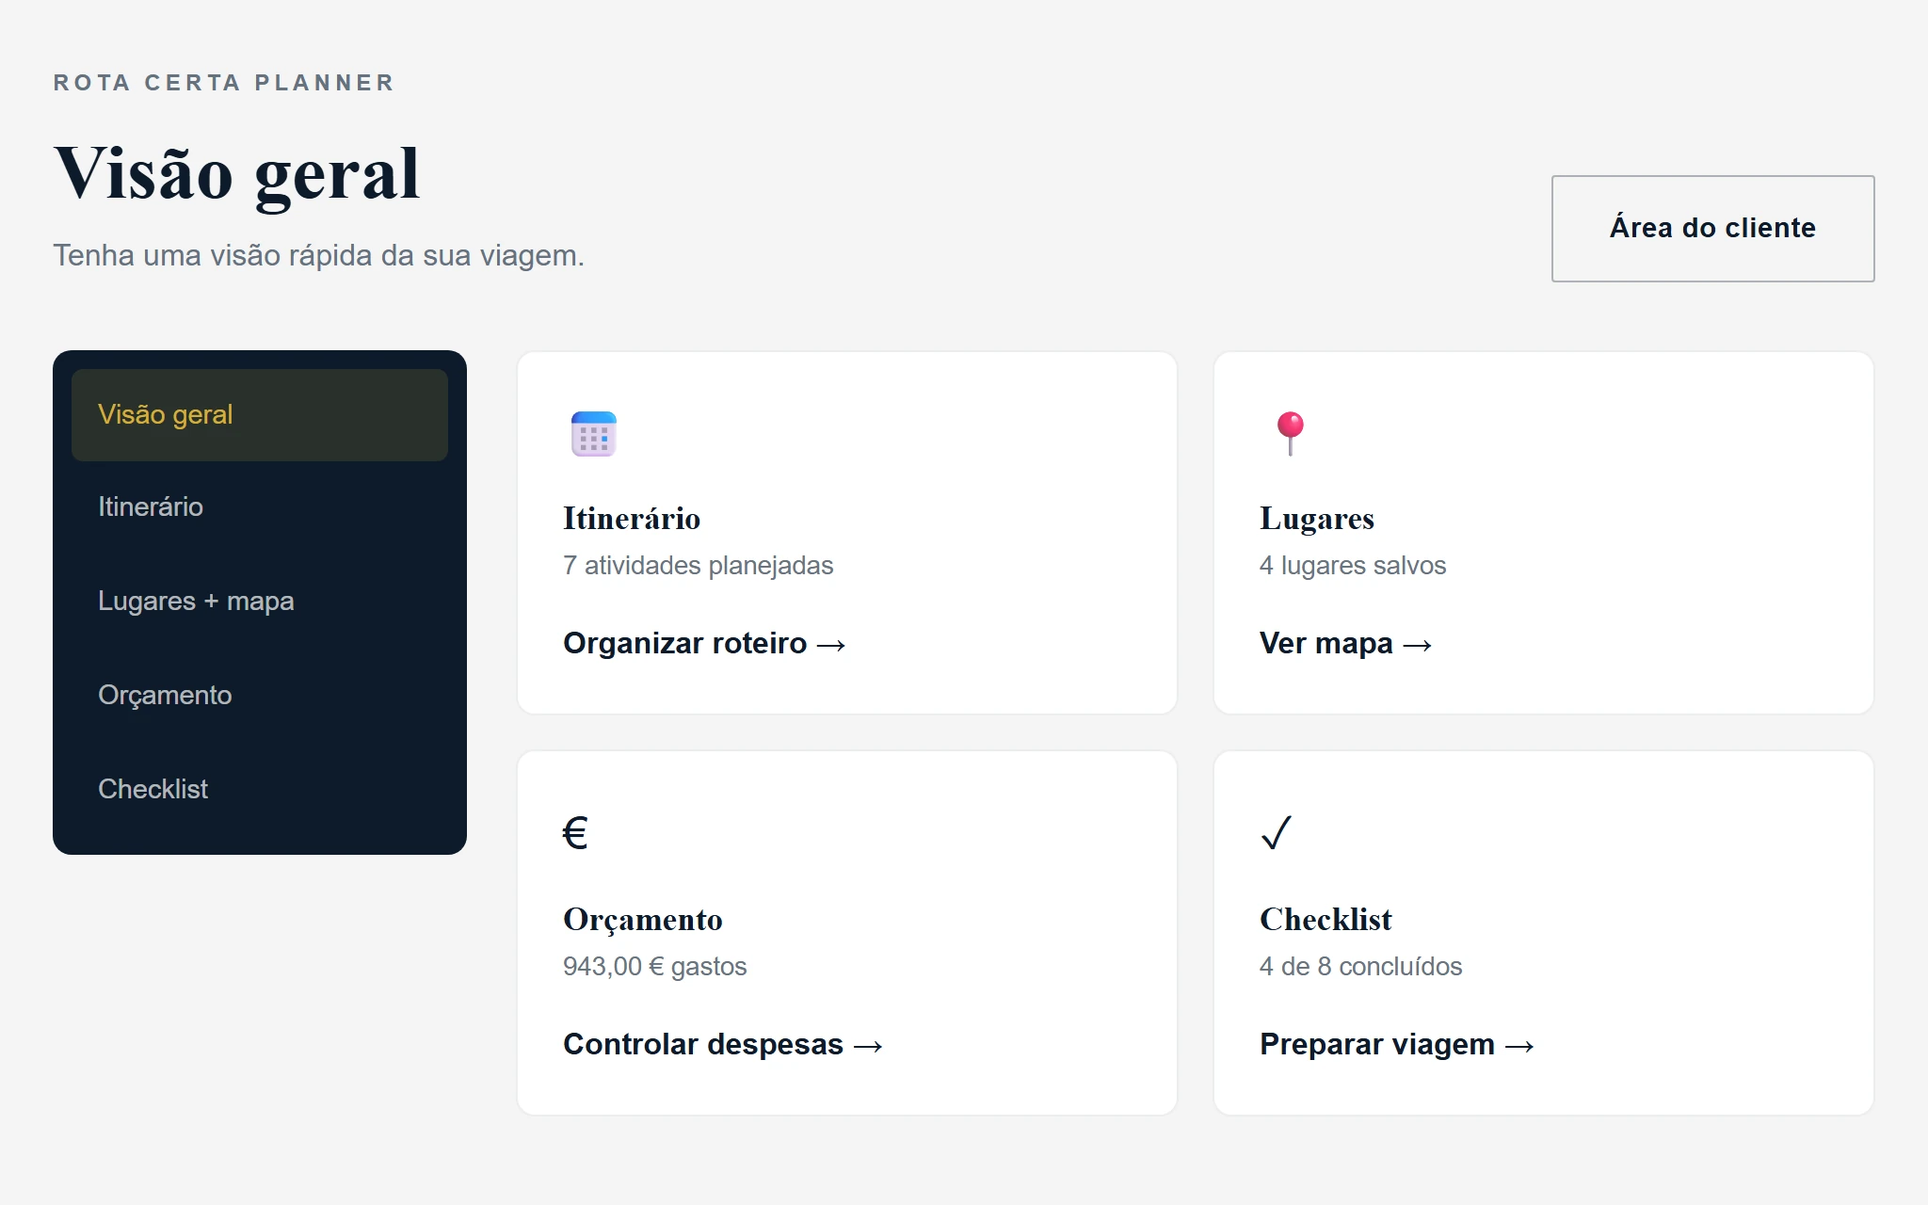
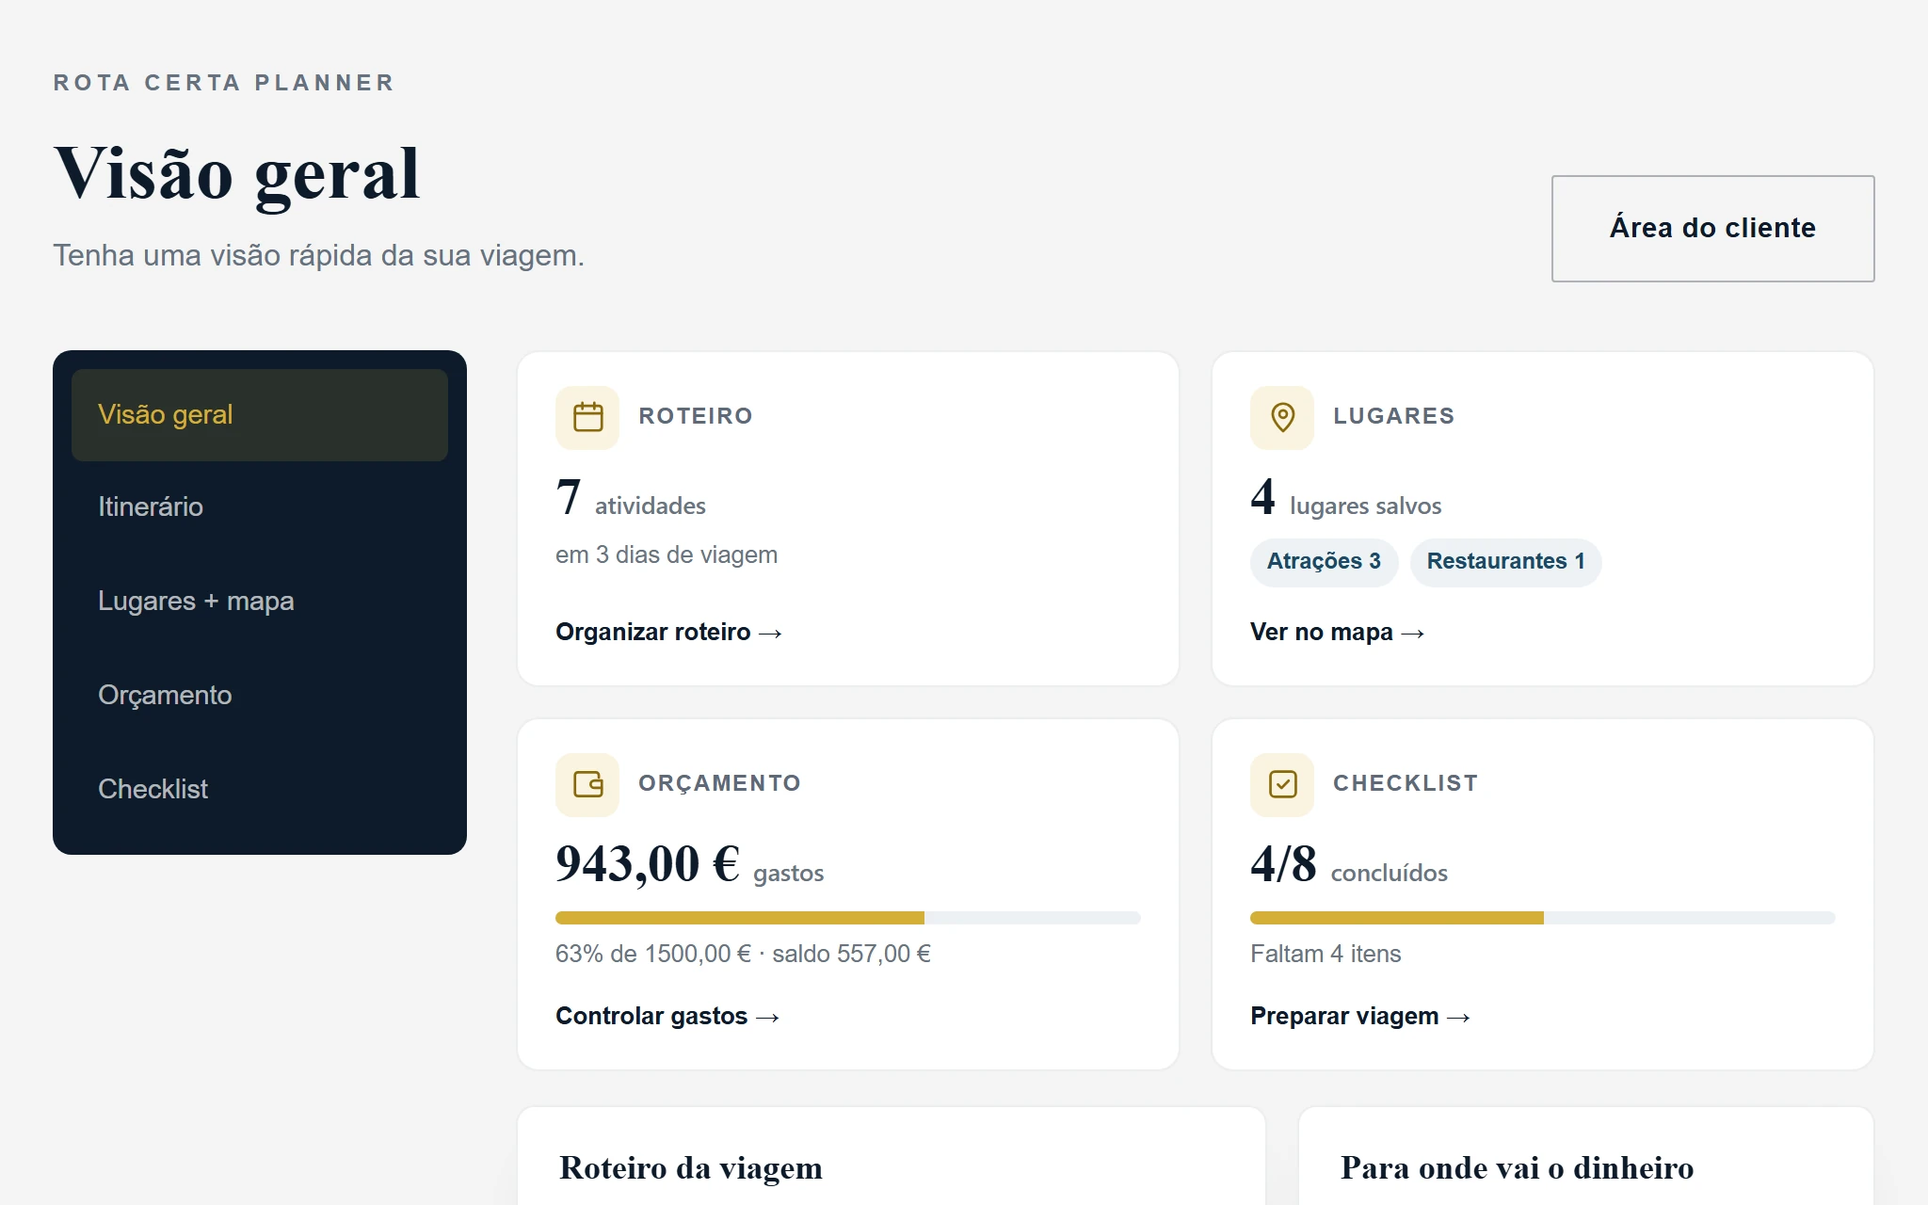
feat(home): Visão geral do Planner em painel, menu direto e pagamentos no rodapé
- Visão geral do Planner: 4 indicadores com ícones (roteiro, lugares,
  orçamento com barra e saldo, checklist com progresso) e 3 painéis
  (roteiro da viagem, para onde vai o dinheiro, o que falta preparar),
  com estados vazios. Uma coluna no celular.
- Menu: "Planejador" vira link direto para o Planner, sem submenu, e a
  ordem fica Sobre nós, FAQ, Contato (a mesma das seções).
- Topo: o selo repetia o nome da marca; agora diz o que a empresa faz
  ("Passagens e planejamento de viagem", versão curta no celular).
- Rodapé: formas de pagamento (Mastercard, Visa, American Express,
  Hipercard, Elo e Aura em até 12x, e Pix). Ícones em branco a partir do
  Simple Icons (CC0) e do aaronfagan/svg-credit-card-payment-icons
  (Apache-2.0), com a fonte anotada em cada arquivo.
- Vitrine da home: telas do Planner recapturadas com a Visão geral nova.

diff --git a/public/index.html b/public/index.html
@@ -112,6 +112,8 @@
   .hero-inner{ position:relative; z-index:2; display:grid; grid-template-columns: 1.1fr 0.9fr; gap:50px; align-items:center; }
   .eyebrow{ color: var(--gold); font-size:0.78rem; letter-spacing:0.22em; text-transform:uppercase; font-weight:600; margin-bottom:22px; display:flex; align-items:center; gap:10px; }
   .eyebrow::before{ content:''; width:34px; height:1px; background: var(--gold); }
+  @media (max-width: 520px){ .eyebrow-extra{ display:none; } }
+  @media (max-width: 400px){ #top .eyebrow{ letter-spacing:0.14em; } }
   .hero h1{ color: var(--off-white); font-size: clamp(2.2rem, 4.3vw, 3.6rem); max-width: 640px; margin-bottom:22px; }
   .hero h1 em{ font-style:italic; color: var(--gold); }
   .hero p.lede{ color: rgba(244,244,244,0.82); font-size:1.08rem; max-width:520px; margin-bottom:36px; font-weight:300; }
@@ -587,6 +589,13 @@
   .foot-logo .logo-img{ width:42px; height:42px; }
   @media (max-width:760px){ .foot-grid > div:first-child{ grid-column:1 / -1; } }
   .foot-tag{ font-size:0.9rem; max-width:280px; margin-bottom:20px; }
+  .foot-pay{ margin-top:30px; }
+  .foot-pay h2{ margin-bottom:14px; }
+  .foot-pay p{ font-size:0.82rem; margin-bottom:10px; }
+  .foot-pay-row{ display:flex; flex-wrap:wrap; gap:8px; margin-bottom:18px; }
+  .foot-grid .foot-pay-row li{ display:grid; place-items:center; width:44px; height:44px; margin:0; border-radius:50%;
+    background:rgba(244,244,244,0.1); border:1px solid rgba(244,244,244,0.14); }
+  .foot-pay-row img{ width:30px; height:19px; object-fit:contain; opacity:0.92; }
   .foot-bottom{ border-top:1px solid rgba(244,244,244,0.1); padding-top:24px; display:flex; justify-content:space-between; flex-wrap:wrap; gap:10px; font-size:0.78rem; }
 
   /* ---------- WHATSAPP FLOAT ---------- */
@@ -647,6 +656,43 @@
   .planner-lock{display:flex;align-items:center;justify-content:space-between;gap:18px;flex-wrap:wrap;background:var(--navy);color:var(--off-white);border-radius:10px;padding:20px 24px;margin-bottom:24px}.planner-lock strong{display:block;margin-bottom:4px;font-size:.98rem}.planner-lock p{font-size:.85rem;color:rgba(244,244,244,.75);margin:0}.planner-lock .btn{flex-shrink:0}
   .trip-manager{display:flex;align-items:center;justify-content:space-between;gap:18px;flex-wrap:wrap;padding:18px 20px}.trip-manager-main{display:flex;align-items:center;gap:18px;flex-wrap:wrap}.trip-manager-main>div{display:grid;gap:3px}.trip-manager-main strong{font-size:1.05rem}.trip-manager-main span{font-size:.78rem;color:#77818c}.trip-manager-main label{font-size:.72rem;text-transform:uppercase;letter-spacing:.05em;color:#66717e;font-weight:700}.trip-manager select{display:block;min-width:210px;margin-top:5px;padding:10px 34px 10px 11px;border:1px solid rgba(13,27,42,.14);border-radius:7px;background:#fff;color:var(--navy);font:inherit;text-transform:none}.trip-manager-actions{display:flex;gap:8px;flex-wrap:wrap}.trip-plan-badge{width:max-content;background:rgba(212,175,55,.15);color:#816b18;border-radius:99px;padding:3px 8px;font-weight:800;letter-spacing:.05em}
   .overview-grid{display:grid;grid-template-columns:1fr 1fr;gap:18px}.overview-card{background:var(--white);border:1px solid rgba(13,27,42,.08);border-radius:10px;padding:24px;transition:.2s}.overview-card:hover{transform:translateY(-2px);box-shadow:0 14px 30px -25px rgba(13,27,42,.5)}.overview-card .icon{font-size:1.5rem;margin-bottom:15px}.overview-card h3{font-size:1.1rem;margin-bottom:5px}.overview-card p{font-size:.86rem;color:#697481;margin-bottom:16px}
+.ov-stats{display:grid;grid-template-columns:repeat(2,minmax(0,1fr));gap:16px;margin-bottom:18px}
+.ov-stat{display:flex;flex-direction:column;gap:7px;background:var(--white);border:1px solid rgba(13,27,42,.08);border-radius:12px;padding:18px 20px;color:var(--navy);text-decoration:none;transition:transform .2s ease,box-shadow .2s ease,border-color .2s ease}
+.ov-stat:hover{transform:translateY(-2px);border-color:rgba(212,175,55,.55);box-shadow:0 16px 30px -24px rgba(13,27,42,.55)}
+.ov-stat-head{display:flex;align-items:center;gap:10px;font-size:.74rem;font-weight:700;letter-spacing:.09em;text-transform:uppercase;color:#5d6978}
+.ov-ico{display:grid;place-items:center;width:34px;height:34px;flex:0 0 34px;border-radius:9px;background:rgba(212,175,55,.15);color:#8a6a0c}
+.ov-ico svg{width:19px;height:19px}
+.ov-value{font-family:var(--font-display);font-size:1.75rem;font-weight:700;line-height:1.1;margin-top:3px}
+.ov-value small{font-family:'Montserrat',system-ui,sans-serif;font-size:.8rem;font-weight:600;color:#697481;margin-left:7px}
+.ov-meta{font-size:.8rem;color:#697481;line-height:1.4}
+.ov-stat .progress{height:7px;margin-top:2px}
+.ov-chips{display:flex;flex-wrap:wrap;gap:6px}
+.ov-chips span{font-size:.74rem;font-weight:600;padding:3px 9px;border-radius:99px;background:#edf2f5;color:var(--blue)}
+.ov-more{margin-top:auto;padding-top:6px;font-size:.8rem;font-weight:700}
+.ov-stat:hover .ov-more{color:#8a6a0c}
+.ov-panels{display:grid;grid-template-columns:minmax(0,1.3fr) minmax(0,1fr);gap:16px;align-items:start}
+.ov-panel{margin-bottom:0;padding:22px}
+.ov-panel h2{font-size:1.12rem;margin-bottom:14px}
+.ov-agenda-wrap{grid-row:span 2}
+.ov-agenda{display:grid;gap:9px}
+.ov-agenda li{display:grid;grid-template-columns:62px 1fr;gap:12px;align-items:center;padding:9px 12px 9px 9px;border-radius:10px;background:#f6f7f9}
+.ov-when{display:grid;justify-items:center;gap:1px;padding:6px 4px;border-radius:8px;background:var(--navy);color:rgba(244,244,244,.75);font-size:.62rem;font-weight:700;letter-spacing:.08em;text-transform:uppercase}
+.ov-when b{font-size:.88rem;letter-spacing:0;color:var(--gold)}
+.ov-agenda strong{display:block;font-size:.88rem;line-height:1.3}
+.ov-agenda small{display:block;margin-top:2px;font-size:.75rem;color:#697481}
+.ov-bars{display:grid;gap:12px}
+.ov-bars li{display:grid;grid-template-columns:1fr auto;gap:6px 10px;font-size:.82rem}
+.ov-bars b{font-weight:700}
+.ov-bar{grid-column:1/-1;height:8px;border-radius:99px;background:#edf1f4;overflow:hidden}
+.ov-bar i{display:block;height:100%;border-radius:inherit;background:var(--gold)}
+.ov-todo{display:grid;gap:10px}
+.ov-todo li{display:flex;gap:10px;align-items:center;font-size:.86rem;line-height:1.35}
+.ov-todo li::before{content:"";width:16px;height:16px;flex:0 0 16px;border:1.6px solid rgba(13,27,42,.3);border-radius:5px}
+.ov-link{display:inline-block;margin-top:14px;font-size:.82rem;font-weight:700;color:var(--navy)}
+.ov-link:hover{color:#8a6a0c}
+.ov-empty{font-size:.86rem;color:#697481}
+@media(max-width:900px){.ov-panels{grid-template-columns:1fr}.ov-agenda-wrap{grid-row:auto}}
+@media(max-width:640px){.ov-stats{grid-template-columns:1fr;gap:12px}.ov-stat{padding:16px 18px}}
   .planner-toolbar{display:flex;justify-content:space-between;align-items:center;gap:12px;margin-bottom:16px}.planner-form{background:var(--white);border:1px solid rgba(13,27,42,.08);border-radius:10px;padding:20px;margin-bottom:20px}.planner-form-grid{display:grid;grid-template-columns:100px 150px 1fr 170px;gap:12px}.planner-form-grid input,.planner-form-grid select,.planner-form-grid textarea,.inline-input{width:100%;padding:12px;border:1px solid rgba(13,27,42,.14);border-radius:7px;font:inherit;color:var(--navy);background:#fff}.planner-form-grid textarea{grid-column:1/-1;min-height:80px}.item-list{display:grid;gap:10px}.planner-item{display:flex;align-items:center;justify-content:space-between;gap:15px;background:var(--white);border:1px solid rgba(13,27,42,.08);border-radius:8px;padding:15px}.planner-item-main{display:flex;gap:12px;align-items:center}.planner-item-badge{font-size:.72rem;padding:5px 8px;border-radius:999px;background:#edf2f5;color:var(--blue)}.planner-item strong{display:block;line-height:1.35}.planner-item small{display:block;margin-top:2px;color:#5d6978}.delete-item{border:0;background:none;color:#9b4b4b;cursor:pointer;font-size:.8rem}
   .places-grid{display:grid;grid-template-columns:.85fr 1.15fr;gap:20px}.place-form-grid{display:grid;grid-template-columns:1fr 1fr;gap:12px}.place-form-grid .full{grid-column:1/-1}.place-form-grid input,.place-form-grid select,.place-form-grid textarea{width:100%;padding:12px;border:1px solid rgba(13,27,42,.14);border-radius:7px;font:inherit}.place-form-grid textarea{min-height:70px}.map-frame{width:100%;height:420px;border:0;border-radius:10px}.place-list{display:grid;gap:10px;margin-top:15px}.place-row{padding:14px;border:1px solid rgba(13,27,42,.08);border-radius:8px;background:#fff;display:flex;justify-content:space-between;gap:12px;transition:border-color .2s ease,box-shadow .2s ease}.place-row.active{border-color:var(--gold);box-shadow:0 0 0 1px var(--gold)}.place-row strong{display:block}.place-row small{color:#77818c}.place-actions{display:flex;flex-wrap:wrap;gap:16px;margin-top:8px}.place-map{border:0;background:none;padding:0;color:var(--blue);font:inherit;font-size:.8rem;font-weight:700;cursor:pointer}.place-map:hover,.place-route:hover{color:var(--navy)}.place-route{color:var(--blue);font-size:.8rem;font-weight:700;text-decoration:underline;text-underline-offset:2px}
   .budget-summary{display:grid;grid-template-columns:repeat(3,1fr);gap:14px;margin-bottom:20px}.budget-box{background:var(--white);border:1px solid rgba(13,27,42,.08);border-radius:9px;padding:18px}.budget-box small{display:block;color:#77818c;margin-bottom:5px}.budget-box strong{font-size:1.5rem;color:var(--navy)}.budget-box.expense strong{color:#c64b5b}.budget-box.balance strong{color:#22945a}.progress{height:9px;background:#edf1f4;border-radius:99px;overflow:hidden}.progress span{display:block;height:100%;background:var(--gold);width:0}
@@ -676,17 +722,9 @@
             <a href="/blog/">Guias de viagem</a>
           </div>
         </li>
-        <li class="nav-group"><button class="nav-parent" type="button" aria-expanded="false">Planejador <svg class="chev" viewBox="0 0 12 12" aria-hidden="true"><path d="M2.5 4.5 6 8l3.5-3.5" fill="none" stroke="currentColor" stroke-width="1.6" stroke-linecap="round" stroke-linejoin="round"/></svg></button>
-          <div class="nav-dropdown">
-            <a href="#/planner">Visão geral</a>
-            <a href="#/planner/itinerario">Itinerário</a>
-            <a href="#/planner/lugares">Lugares + mapa</a>
-            <a href="#/planner/orcamento">Orçamento</a>
-            <a href="#/planner/checklist">Checklist</a>
-          </div>
-        </li>
-        <li><a href="#faq">FAQ</a></li>
+        <li><a href="#/planner">Planejador</a></li>
         <li><a href="#sobre">Sobre nós</a></li>
+        <li><a href="#faq">FAQ</a></li>
         <li><a href="#contato">Contato</a></li>
         <li class="nav-mobile-only"><a href="#/cliente">Área do cliente</a></li>
       </ul>
@@ -707,7 +745,7 @@
   </svg>
   <div class="wrap hero-inner">
     <div>
-      <p class="eyebrow">Rota Certa Passagens</p>
+      <p class="eyebrow"><span>Passagens e planejamento<span class="eyebrow-extra"> de viagem</span></span></p>
       <h1>Você não precisa complicar a sua viagem — só precisa da <em>rota certa</em>.</h1>
       <p class="lede">Da passagem ao roteiro, cuidamos de cada detalhe para que possa viajar com mais tranquilidade, segurança e confiança.</p>
       <div class="hero-ctas">
@@ -1183,6 +1221,22 @@
       <div>
         <a href="#top" class="logo foot-logo"><img src="/assets/logo-simbolo-claro.png" alt="" class="logo-img" width="46" height="46" loading="lazy">Rota Certa <span>Passagens</span></a>
         <p class="foot-tag">Você escolhe o destino. Nós tratamos da rota.</p>
+        <div class="foot-pay">
+          <h2>Formas de pagamento</h2>
+          <p>Cartão de crédito em até 12x</p>
+          <ul class="foot-pay-row" aria-label="Bandeiras de cartão aceitas">
+            <li><img src="/assets/pagamento/mastercard.svg" alt="Mastercard" title="Mastercard" width="30" height="19" loading="lazy" decoding="async"></li>
+            <li><img src="/assets/pagamento/visa.svg" alt="Visa" title="Visa" width="30" height="19" loading="lazy" decoding="async"></li>
+            <li><img src="/assets/pagamento/amex.svg" alt="American Express" title="American Express" width="30" height="19" loading="lazy" decoding="async"></li>
+            <li><img src="/assets/pagamento/hipercard.svg" alt="Hipercard" title="Hipercard" width="30" height="19" loading="lazy" decoding="async"></li>
+            <li><img src="/assets/pagamento/elo.svg" alt="Elo" title="Elo" width="30" height="19" loading="lazy" decoding="async"></li>
+            <li><img src="/assets/pagamento/aura.svg" alt="Aura" title="Aura" width="30" height="19" loading="lazy" decoding="async"></li>
+          </ul>
+          <p>Pagamento via Pix</p>
+          <ul class="foot-pay-row" aria-label="Pix">
+            <li><img src="/assets/pagamento/pix.svg" alt="Pix" title="Pix" width="30" height="19" loading="lazy" decoding="async"></li>
+          </ul>
+        </div>
       </div>
       <div>
         <h2>Explorar</h2>

diff --git a/public/assets/site.js b/public/assets/site.js
@@ -193,7 +193,29 @@ function addTripManager(element, key) {
 }
 
 function renderOverview(element) {
-  element.innerHTML = `<div class="overview-grid"><a class="overview-card" href="#/planner/itinerario"><div class="icon">📅</div><h3>Itinerário</h3><p>${data.itinerary.length} atividades planejadas</p><strong>Organizar roteiro →</strong></a><a class="overview-card" href="#/planner/lugares"><div class="icon">📍</div><h3>Lugares</h3><p>${data.places.length} lugares salvos</p><strong>Ver mapa →</strong></a><a class="overview-card" href="#/planner/orcamento"><div class="icon">€</div><h3>Orçamento</h3><p>${money(data.expenses.reduce((sum, item) => sum + Number(item.value || 0), 0))} gastos</p><strong>Controlar despesas →</strong></a><a class="overview-card" href="#/planner/checklist"><div class="icon">✓</div><h3>Checklist</h3><p>${data.checklist.filter((item) => item.done).length} de ${data.checklist.length} concluídos</p><strong>Preparar viagem →</strong></a></div>`;
+  const icon = (d) => `<span class="ov-ico"><svg viewBox="0 0 24 24" fill="none" stroke="currentColor" stroke-width="1.7" stroke-linecap="round" stroke-linejoin="round" aria-hidden="true">${d}</svg></span>`;
+  const spent = data.expenses.reduce((sum, item) => sum + Number(item.value || 0), 0);
+  const budget = Number(data.budget || 0);
+  const budgetPct = budget > 0 ? Math.min(100, (spent / budget) * 100) : 0;
+  const done = data.checklist.filter((item) => item.done).length;
+  const total = data.checklist.length;
+  const days = new Set(data.itinerary.map((item) => Number(item.day) || 1)).size;
+  const agenda = [...data.itinerary].sort((a, b) => (Number(a.day) - Number(b.day)) || String(a.time || '99:99').localeCompare(String(b.time || '99:99'))).slice(0, 5);
+  const tally = (list, weight) => [...list.reduce((acc, item) => acc.set(item.type, (acc.get(item.type) || 0) + weight(item)), new Map())].sort((x, y) => y[1] - x[1]);
+  const placeTypes = tally(data.places, () => 1).slice(0, 3);
+  const costTypes = tally(data.expenses, (item) => Number(item.value || 0)).slice(0, 4);
+  const pending = data.checklist.filter((item) => !item.done).slice(0, 5);
+  const plural = (n, one, many) => `${n} ${n === 1 ? one : many}`;
+  element.innerHTML = `<div class="ov-stats">`
+    + `<a class="ov-stat" href="#/planner/itinerario"><span class="ov-stat-head">${icon('<rect x="3" y="4.5" width="18" height="16.5" rx="2"/><path d="M3 9.5h18M8 2.5v4M16 2.5v4"/>')}Roteiro</span><span class="ov-value">${data.itinerary.length}<small>${data.itinerary.length === 1 ? 'atividade' : 'atividades'}</small></span><span class="ov-meta">${data.itinerary.length ? `em ${plural(days, 'dia', 'dias')} de viagem` : 'Nada planejado ainda'}</span><span class="ov-more">Organizar roteiro →</span></a>`
+    + `<a class="ov-stat" href="#/planner/lugares"><span class="ov-stat-head">${icon('<path d="M12 21.5s-7-6.1-7-11.5a7 7 0 0 1 14 0c0 5.4-7 11.5-7 11.5z"/><circle cx="12" cy="10" r="2.5"/>')}Lugares</span><span class="ov-value">${data.places.length}<small>${data.places.length === 1 ? 'lugar salvo' : 'lugares salvos'}</small></span>${placeTypes.length ? `<span class="ov-chips">${placeTypes.map(([type, n]) => `<span>${esc(type)} ${n}</span>`).join('')}</span>` : '<span class="ov-meta">Guarde atrações e restaurantes</span>'}<span class="ov-more">Ver no mapa →</span></a>`
+    + `<a class="ov-stat" href="#/planner/orcamento"><span class="ov-stat-head">${icon('<path d="M19 7.5V6a2 2 0 0 0-2-2H5a2 2 0 0 0-2 2v12a2 2 0 0 0 2 2h14a2 2 0 0 0 2-2v-3"/><path d="M21 9.5h-5a2.5 2.5 0 0 0 0 5h5z"/>')}Orçamento</span><span class="ov-value">${money(spent)}<small>gastos</small></span>${budget > 0 ? `<span class="progress"><span style="width:${budgetPct.toFixed(0)}%"></span></span><span class="ov-meta">${budgetPct.toFixed(0)}% de ${money(budget)} · saldo ${money(budget - spent)}</span>` : '<span class="ov-meta">Defina um orçamento para a viagem</span>'}<span class="ov-more">Controlar gastos →</span></a>`
+    + `<a class="ov-stat" href="#/planner/checklist"><span class="ov-stat-head">${icon('<rect x="3.5" y="3.5" width="17" height="17" rx="3"/><path d="m8.5 12.2 2.4 2.4 4.8-5"/>')}Checklist</span><span class="ov-value">${done}/${total}<small>concluídos</small></span>${total ? `<span class="progress"><span style="width:${((done / total) * 100).toFixed(0)}%"></span></span><span class="ov-meta">${done === total ? 'Tudo pronto para viajar' : `Faltam ${plural(total - done, 'item', 'itens')}`}</span>` : '<span class="ov-meta">Monte a lista do que levar e resolver</span>'}<span class="ov-more">Preparar viagem →</span></a>`
+    + `</div><div class="ov-panels">`
+    + `<section class="planner-card ov-panel ov-agenda-wrap"><h2>Roteiro da viagem</h2>${agenda.length ? `<ul class="ov-agenda">${agenda.map((item) => `<li><span class="ov-when">Dia ${esc(item.day)}<b>${esc(item.time || '--:--')}</b></span><div><strong>${esc(item.what)}</strong><small>${esc(item.type)}${item.notes ? ` · ${esc(item.notes)}` : ''}</small></div></li>`).join('')}</ul>` : '<p class="ov-empty">Adicione a primeira atividade: o voo, o hotel ou um passeio.</p>'}<a class="ov-link" href="#/planner/itinerario">${data.itinerary.length > agenda.length ? `Ver as ${data.itinerary.length} atividades →` : 'Abrir o roteiro →'}</a></section>`
+    + `<section class="planner-card ov-panel"><h2>Para onde vai o dinheiro</h2>${costTypes.length ? `<ul class="ov-bars">${costTypes.map(([type, value]) => `<li><span>${esc(type)}</span><b>${money(value)}</b><span class="ov-bar"><i style="width:${spent ? ((value / spent) * 100).toFixed(0) : 0}%"></i></span></li>`).join('')}</ul>` : '<p class="ov-empty">Nenhum gasto registrado ainda.</p>'}<a class="ov-link" href="#/planner/orcamento">Ver orçamento →</a></section>`
+    + `<section class="planner-card ov-panel"><h2>O que falta preparar</h2>${pending.length ? `<ul class="ov-todo">${pending.map((item) => `<li>${esc(item.text)}</li>`).join('')}</ul>` : `<p class="ov-empty">${total ? 'Tudo pronto. Boa viagem!' : 'Seu checklist ainda está vazio.'}</p>`}<a class="ov-link" href="#/planner/checklist">Abrir checklist →</a></section>`
+    + `</div>`;
 }
 
 function renderItinerary(element) {
